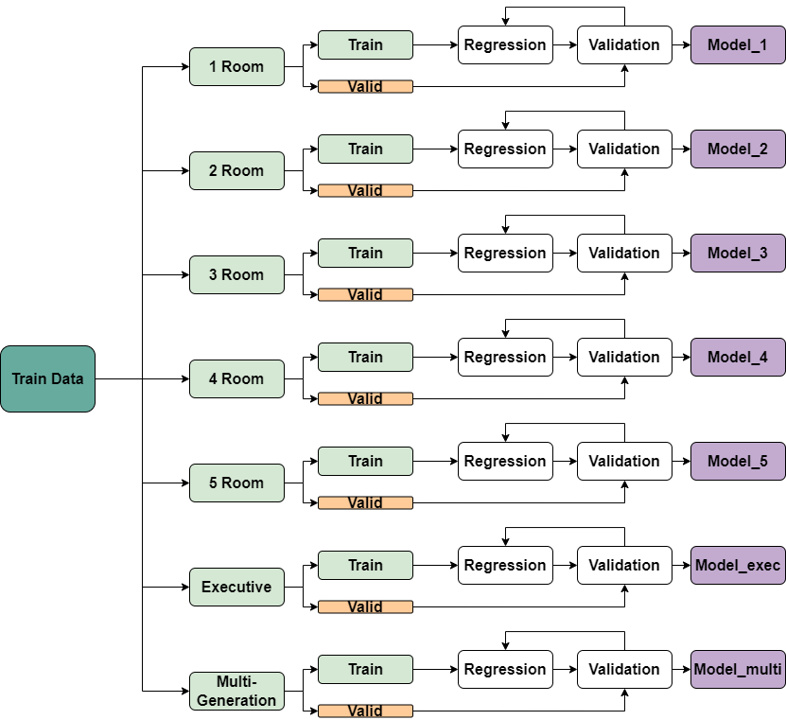
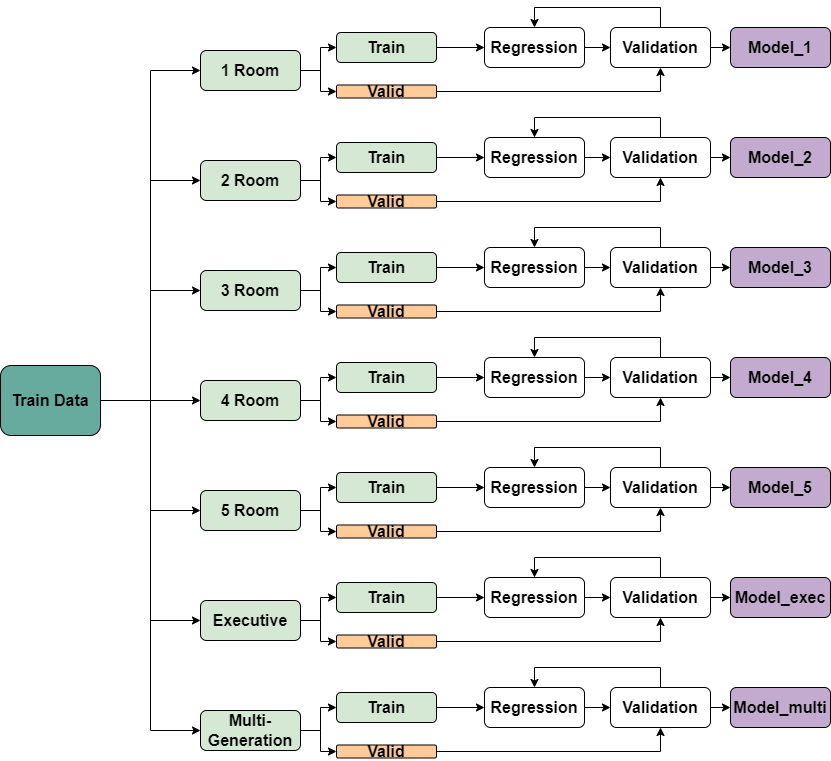
revise README

diff --git a/project_2/README.md b/project_2/README.md
@@ -104,14 +104,16 @@ We found that resale price of 7 different flat types show an ascending order of 
 
 The heatmaps below show the top 5 features positively correlated to resale price for **2 Room**, **4 Room** and **Multi-generation**. Compared to the overall heatmap with all flat types included, the top 5 features for each flat type are quite different. For example, the most positively correlated feature is **'max floor level'** for **3 Room** and **4 Room** and **'hawker numbers within 2km'** for **5 Room**, **Executive** and **Multi-generation**. It indicates that using seperate models to predict the resale prices of different flat types will be meaningful.
 
-<img src="images/heatmap_1.PNG" width="400"/>
-<img src="images/heatmap_2.PNG" width="400"/>
-<img src="images/heatmap_3.PNG" width="400"/>
+<p float="left">
+    <img src="images/heatmap_1.PNG" width="400"/>
+    <img src="images/heatmap_2.PNG" width="400"/>
+    <img src="images/heatmap_3.PNG" width="400"/>
+</p>
 
 ### Modeling
 The methodology we used is to split the models for different flat types. We believe the model should be different since the EDA results show that the key correlated features are different for each flat type. 
 
-<img src="images/modeling_methodology.png" width="800"/>
+<img src="images/modeling_methodology.png" width="600"/>
 
 Below shows the results of the final models we selected and the normalized RMSE on the validation set for each flat type. The normalized RMSE value is between **0.053** to **0.086**.
 |Model Name|Flat Type|Regression Model|Normalized RMSE on Validation Set|
@@ -126,9 +128,12 @@ Below shows the results of the final models we selected and the normalized RMSE 
 
 We did an overall model evaluation on the validation set. We predicted the resale price for each flat type separately, then merge these results into a full validation dataset with predict values and actual values, then we can calculate the combine RMSE from there (refer to the results in [Conclusion and Recommendation](#Conclusion-and-Recommendation)). We also did normality check and equal variance check of the residuals and observed some outliers, which are from 3 room, 4 room, 5 room and executive.  
 
-<img src="images/residual_1.png" width="400"/>
-<img src="images/residual_2.png" width="400"/>
-
+<img src="images/model_evaluation.png" width="800"/>
+<p float="left">
+    <img src="images/residual_1.png" width="470"/>
+    <img src="images/residual_2.png" width="500"/>
+</p>
+    
 [Return to top](#Table-of-Contents)
 
 ## Conclusion and Recommendation  
